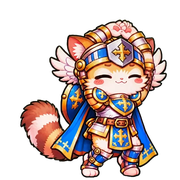
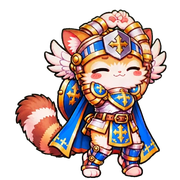
Good morning: use only frames 8-13 so the arms don't come forward over the face
Claude-Session: https://claude.ai/code/session_01CqN5TM8CtnKZx6KMXb1z93

diff --git a/line-stickers/animated-emoji/06-good-morning/make_good_morning.py b/line-stickers/animated-emoji/06-good-morning/make_good_morning.py
@@ -1,17 +1,15 @@
-"""Good morning emoji: stretch on tiptoes with paws on top of the head, wings opening, then relax and stretch again.
-Uses only video frames 1-22: after that Kling stretches the arms into long hoops, which looked wrong.
-Ping-pong loop (22 -> 1 -> 22), starts on the stretch. 2 s loop x 2."""
+"""Good morning emoji: paws together on top of the head, wings open, gentle happy sway.
+Uses only video frames 8-13: elsewhere Kling's arms come forward over the face or stretch into long hoops.
+Ping-pong loop (8 -> 13 -> 8). 1 s loop x 4."""
 import sys, os
 from PIL import Image
 SRC, OUT = sys.argv[1], sys.argv[2]            # folder of green-removed video frames (NNN.png), output folder
-W, LOOP_MS = 540, 2000                          # working canvas (3x of 180), one loop
-TOP, BOTTOM = 22, 1                             # stretched (wings open) / relaxed lean
-DOWN = [22, 20, 18, 16, 14, 12, 10, 8, 5, 3]
-UP = [1, 3, 5, 8, 10, 12, 14, 16, 18, 20]
-SEQ = DOWN + UP
-durs = [72] * len(SEQ)
-durs[SEQ.index(BOTTOM)] = 300
-durs[0] += LOOP_MS - sum(durs)                  # hold the stretch
+W, LOOP_MS = 540, 1000                          # working canvas (3x of 180), one loop
+A, B = 8, 13                                    # sway ends
+SEQ = list(range(A, B + 1)) + list(range(B - 1, A, -1))
+durs = [80] * len(SEQ)
+durs[SEQ.index(B)] = 160
+durs[0] += LOOP_MS - sum(durs)                  # hold at the start
 
 src = {i: Image.open(f"{SRC}/{i:03d}.png") for i in set(SEQ)}
 bbs = [src[i].getbbox() for i in src]
@@ -39,6 +37,6 @@ os.makedirs(f"{OUT}/frames", exist_ok=True)
 f180 = [o.convert('RGBa').resize((180, 180), Image.LANCZOS).convert('RGBA') for o in out]
 for i, f in enumerate(f180): f.save(f"{OUT}/frames/{i+1:02d}.png")
 print('frames', SEQ, durs)
-save(f180, f"{OUT}/good-morning.png", durs, 2)                # 2 s x 2 = 4 s
+save(f180, f"{OUT}/good-morning.png", durs, 4)                # 1 s x 4 = 4 s
 save([o.convert('RGBa').resize((360, 360), Image.LANCZOS).convert('RGBA') for o in out],
      f"{OUT}/preview-good-morning.png", durs, 0)
